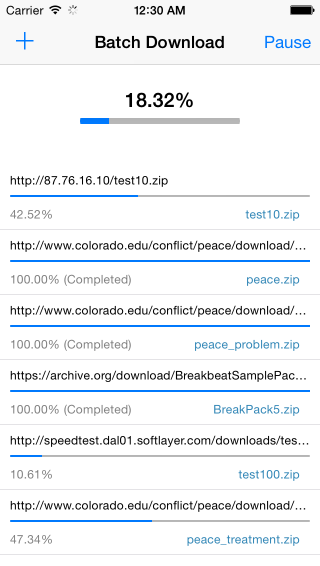
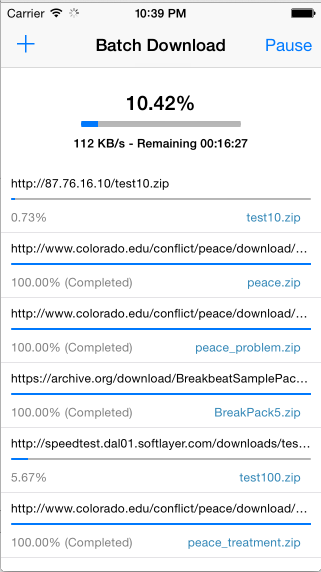
add download rate and remaining time

diff --git a/ObjectiveCDM-Example/ObjectiveCDM-Example/DownloadViewController.m b/ObjectiveCDM-Example/ObjectiveCDM-Example/DownloadViewController.m
@@ -83,10 +83,17 @@
     CGFloat screenWidth = screenRect.size.width;
     
     overallProgressLabel = [[UILabel alloc] initWithFrame:CGRectMake(0, 80, screenWidth, 40)];
+    overallRateLabel = [[UILabel alloc] initWithFrame:CGRectMake(0, 130, screenWidth, 20)];
     [overallProgressLabel setTextAlignment:NSTextAlignmentCenter];
     [overallProgressLabel setText:@"0.00%"];
     [overallProgressLabel setTextColor:[UIColor blackColor]];
     [overallProgressLabel setFont:[UIFont boldSystemFontOfSize:20]];
+    
+    [overallRateLabel setTextAlignment:NSTextAlignmentCenter];
+    [overallRateLabel setText:@"Initializing..."];
+    [overallRateLabel setTextColor:[UIColor blackColor]];
+    [overallRateLabel setFont:[UIFont boldSystemFontOfSize:12]];
+    
     overallProgressBar = [[UIProgressView alloc] initWithProgressViewStyle:UIProgressViewStyleDefault];
     overallProgressBar.frame = CGRectMake(80, 120, screenWidth - 160, 30);
     overallProgressBar.progress = 0;
@@ -94,9 +101,9 @@
     
     [self.view addSubview:overallProgressLabel];
     [self.view addSubview:overallProgressBar];
+    [self.view addSubview:overallRateLabel];
     
 }
-
 - (void) setupIndividualProgressView {
     CGRect screenRect = [[UIScreen mainScreen] bounds];
     CGFloat screenWidth = screenRect.size.width;
@@ -160,12 +167,20 @@
     } else if([[startButton title] isEqualToString:@"Start"]) {
         [_objectiveCDM startDownloadingCurrentBatch];
         [startButton setTitle:@"Pause"];
+        downloadRateTimer = [NSTimer scheduledTimerWithTimeInterval:5 target:self selector:@selector(updateOverallRate) userInfo:nil repeats:YES];
         app.networkActivityIndicatorVisible = YES;
     } else if([[startButton title] isEqualToString:@"Stop"] || [[startButton title] isEqualToString:@"Pause"]) {
         [_objectiveCDM suspendAllOnGoingDownloads];
         [startButton setTitle:@"Resume"];
         app.networkActivityIndicatorVisible = NO;
     }
+}
+
+- (void) updateOverallRate {
+    NSArray* downloadRateAndRemaining = [_objectiveCDM downloadRateAndRemainingTime];
+    currentDownloadRate = downloadRateAndRemaining[0];
+    NSString *remainingTime = downloadRateAndRemaining[1];
+    [overallRateLabel setText:[NSString stringWithFormat:@"%@ - Remaining %@", currentDownloadRate, remainingTime]];
 }
 
 - (void)didReceiveMemoryWarning {
@@ -215,6 +230,8 @@
 
 - (void) didFinishAll {
     [overallProgressLabel setText:@"COMPLETED!"];
+    [downloadRateTimer invalidate];
+    [overallRateLabel setText:[NSString stringWithFormat:@"%@ - Remaining %@", currentDownloadRate, @"00:00:00"]];
     [UIApplication sharedApplication].networkActivityIndicatorVisible = NO;
 }
 

diff --git a/Source/ObjectiveCDM.m b/Source/ObjectiveCDM.m
@@ -79,6 +79,44 @@
     }
 }
 
+- (NSArray *) downloadRateAndRemainingTime {
+    int64_t rate = [currentBatch downloadRate];
+    NSString *bytePerSeconds = [NSString stringWithFormat:@"%@/s", [NSByteCountFormatter stringFromByteCount:rate countStyle:NSByteCountFormatterCountStyleFile]];
+    
+    NSString *remainingTime = [self remainingTimeGivenDownloadingRate:rate];
+    
+    return @[bytePerSeconds, remainingTime];
+}
+
+- (NSString *) remainingTimeGivenDownloadingRate:(int64_t) downloadRate {
+    if(downloadRate == 0) {
+        return @"Unknown";
+    }//end if
+    
+    int64_t actualTotalBytes = 0;
+    NSDictionary *bytesInfo = [currentBatch totalBytesWrittenAndReceived];
+    
+    if(totalBytes == 0) {
+        actualTotalBytes = [(NSNumber *)bytesInfo[@"totalToBeReceivedBytes"] longLongValue];
+    } else {
+        actualTotalBytes = totalBytes;
+    }//end else
+    
+    int64_t actualDownloadedBytes = [(NSNumber *)bytesInfo[@"totalDownloadedBytes"] longLongValue] + initialDownloadedBytes;
+    
+    float timeRemaining = (actualTotalBytes - actualDownloadedBytes) / downloadRate;
+    return [self formatTimeFromSeconds:timeRemaining];
+}
+
+- (NSString *)formatTimeFromSeconds:(int64_t) numberOfSeconds {
+    
+    int64_t seconds = numberOfSeconds % 60;
+    int64_t minutes = (numberOfSeconds / 60) % 60;
+    int64_t hours = numberOfSeconds / 3600;
+    
+    return [NSString stringWithFormat:@"%02lld:%02lld:%02lld", hours, minutes, seconds];
+}
+
 - (void) startDownloadingCurrentBatch {
     [self startADownloadBatch:currentBatch];
 }

diff --git a/Source/ObjectiveCDMDownloadBatch.m b/Source/ObjectiveCDMDownloadBatch.m
@@ -18,6 +18,7 @@
         downloadInputs = [[NSMutableArray alloc] initWithArray:@[]];
         urls = [[NSMutableArray alloc] initWithArray:@[]];
         fileHashAlgorithm = fileHashAlgorithmInput;
+        numberOfBytesDownloadedSinceStart = 0;
     }//end if
     return self;
 }
@@ -108,7 +109,9 @@
 }
 
 - (ObjectiveCDMDownloadTask *) updateProgressOfDownloadURL:(NSString *)url withProgress:(float)percentage withTotalBytesWritten:(int64_t)totalBytesWritten {
+    
     ObjectiveCDMDownloadTask *downloadTask = [self downloadInfoOfTaskUrl:url];
+    numberOfBytesDownloadedSinceStart += totalBytesWritten - downloadTask.totalBytesWritten;
     if(downloadTask) {
         downloadTask.totalBytesWritten = totalBytesWritten;
     }//end if
@@ -207,6 +210,7 @@
 }
 
 - (void) setDownloadingSessionTo:(NSURLSession *)inputSession {
+    startTime = [NSDate date];
     session = inputSession;
 }
 
@@ -243,6 +247,17 @@
             }//end if
         }//end for
     }];
+}
+
+- (double) elapsedSeconds {
+    NSDate *now = [NSDate date];
+    NSTimeInterval distanceBetweenDates = [now timeIntervalSinceDate:startTime];
+    return distanceBetweenDates;
+}
+
+- (int64_t) downloadRate {
+    int64_t rate = numberOfBytesDownloadedSinceStart / [self elapsedSeconds];
+    return rate;
 }
 
 - (BOOL) isDownloading {

diff --git a/Source/ObjectiveCDMDownloadBatch.h b/Source/ObjectiveCDMDownloadBatch.h
@@ -17,6 +17,14 @@ enum {
 
 typedef NSInteger FileHashAlgorithm;
 
+enum {
+    kUnitStringBinaryUnits     = 1 << 0,
+    kUnitStringOSNativeUnits   = 1 << 1,
+    kUnitStringLocalizedFormat = 1 << 2
+};
+
+typedef NSInteger ObjectiveCDMDownloadTaskStatus;
+
 @class ObjectiveCDMDownloadTask;
 
 #import "ObjectiveCDM.h"
@@ -27,6 +35,8 @@ typedef NSInteger FileHashAlgorithm;
     NSMutableArray *urls;
     NSURLSession *session;
     FileHashAlgorithm fileHashAlgorithm;
+    int64_t numberOfBytesDownloadedSinceStart;
+    NSDate *startTime;
 }
 
 @property(nonatomic, assign) BOOL completed;
@@ -48,4 +58,7 @@ typedef NSInteger FileHashAlgorithm;
 - (void) resumeAllSuspendedTasks;
 - (BOOL) isDownloading;
 - (void) redownloadRequestOfTask:(ObjectiveCDMDownloadTask *)downloadTaskInfo;
+
+- (int64_t) downloadRate;
+- (double) elapsedSeconds;
 @end

diff --git a/Source/ObjectiveCDM.h b/Source/ObjectiveCDM.h
@@ -30,11 +30,11 @@
 - (NSArray *) addBatch:(NSArray *)arrayOfDownloadInformation;
 - (NSArray *) downloadingTasks;
 - (void) startDownloadingCurrentBatch;
-- (void) startADownloadBatch:(ObjectiveCDMDownloadBatch *)batch;
 - (ObjectiveCDMDownloadTask *) addDownloadTask:(NSDictionary *)dictionary;
 - (void) cancelAllOutStandingTasks;
 - (void) continueInCompletedDownloads;
 - (void) suspendAllOnGoingDownloads;
+- (NSArray *) downloadRateAndRemainingTime;
 
 @property(nonatomic, assign) FileHashAlgorithm fileHashAlgorithm;
 @property(nonatomic, retain) id<ObjectiveCDMUIDelegate> uiDelegate;

diff --git a/ObjectiveCDM-Example/ObjectiveCDM-Example/DownloadViewController.h b/ObjectiveCDM-Example/ObjectiveCDM-Example/DownloadViewController.h
@@ -15,11 +15,13 @@
     UITextView *downloadLogsView;
     Reachability *internetReachability;
     UILabel *overallProgressLabel;
+    UILabel *overallRateLabel;
     UITableView *individualProgressViewsContainer;
     UIProgressView *overallProgressBar;
     NSArray *downloadTaskInfos;
     NSArray *objectiveCDMDownloadingTasks;
-
+    NSTimer *downloadRateTimer;
+    NSString *currentDownloadRate;
     NSString *currentInputURL;
 }
 
